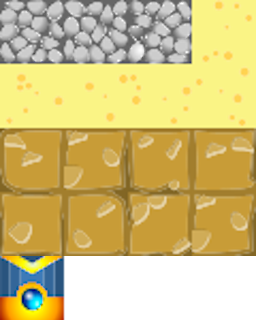
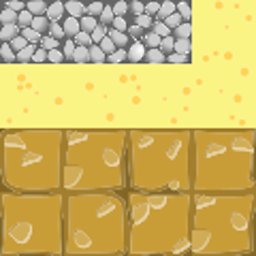
update

diff --git a/js/game.js b/js/game.js
@@ -1,3 +1,13 @@
+var level = 1;
+var score = 0;
+const Game_State = {
+  INTRO: 0,
+  LEVEL_INTRO: 1,
+  LEVEL: 2,
+  GAME_OVER: 3
+};
+var game_state = Game_State.INTRO;
+
 const config = {
   type: Phaser.AUTO,
   parent: 'game',
@@ -24,9 +34,10 @@ function preload() {
   this.load.image('background', 'assets/images/background.png');
   this.load.image('tiles', 'assets/tilesets/blocks.png');
   this.load.image('spike', 'assets/images/spike.png');
+  this.load.image('portal', 'assets/images/portal.png');
   this.load.tilemapTiledJSON('map', 'assets/tilemaps/level1.json');
   this.load.spritesheet('player', 'assets/spritesheets/player.png', 
-    { frameWidth: 32, frameHeight: 32 });
+    { frameWidth: 34, frameHeight: 34 });
   this.load.spritesheet('capsule', 'assets/spritesheets/capsule.png', 
       { frameWidth: 32, frameHeight: 32 });
   }
@@ -51,13 +62,14 @@ function create() {
   this.physics.add.collider(this.player, platforms);
  
   this.capsule = this.physics.add.sprite(6*BLOCK_SIZE, 3*BLOCK_SIZE,'capsule').setScale(1.25).setOrigin(0);;
-//  this.capsule.setBounce(0.1); // our player will bounce from items
   this.capsule.setCollideWorldBounds(true); // don't go out of the map
   this.capsule.setGravityY(1500);
   this.capsule.setBounce(.2);
    this.physics.add.collider(this.capsule, platforms);
   this.physics.add.collider(this.capsule, this.player);
-
+  this.portal = this.physics.add.sprite(9*BLOCK_SIZE, 12*BLOCK_SIZE,'portal').setScale(1.75).setOrigin(0);;
+  this.physics.add.collider(this.capsule, this.portal, levelUp, null, this);
+ 
   this.anims.create({
     key: 'walk',
     frames: this.anims.generateFrameNumbers('player', { frames: [ 4, 5, 6 ] }),
@@ -95,34 +107,34 @@ function create() {
   // Enable user input via cursor keys
   this.cursors = this.input.keyboard.createCursorKeys();
 
-  return;
   // Create a sprite group for all spikes, set common properties to ensure that
   // sprites in the group don't move via gravity or by player collisions
-  this.spikes = this.physics.add.group({
-    allowGravity: false,
-    immovable: true
-  });
+  // this.spikes = this.physics.add.group({
+  //   allowGravity: false,
+  //   immovable: true
+  // });
 
-  // Get the spikes from the object layer of our Tiled map. Phaser has a
-  // createFromObjects function to do so, but it creates sprites automatically
-  // for us. We want to manipulate the sprites a bit before we use them
-  map.getObjectLayer('Spikes').objects.forEach((spike) => {
-    // Add new spikes to our sprite group
-    const spikeSprite = this.spikes.create(spike.x, spike.y + 200 - spike.height, 'spike').setOrigin(0);
-    // By default the sprite has loads of whitespace from the base image, we
-    // resize the sprite to reduce the amount of whitespace used by the sprite
-    // so collisions can be more precise
-    spikeSprite.body.setSize(spike.width, spike.height - 20).setOffset(0, 20);
-  });
+  // // Get the spikes from the object layer of our Tiled map. Phaser has a
+  // // createFromObjects function to do so, but it creates sprites automatically
+  // // for us. We want to manipulate the sprites a bit before we use them
+  // map.getObjectLayer('Spikes').objects.forEach((spike) => {
+  //   // Add new spikes to our sprite group
+  //   const spikeSprite = this.spikes.create(spike.x, spike.y + 200 - spike.height, 'spike').setOrigin(0);
+  //   // By default the sprite has loads of whitespace from the base image, we
+  //   // resize the sprite to reduce the amount of whitespace used by the sprite
+  //   // so collisions can be more precise
+  //   spikeSprite.body.setSize(spike.width, spike.height - 20).setOffset(0, 20);
+  // });
 
-  // Add collision between the player and the spikes
-  this.physics.add.collider(this.player, this.spikes, playerHit, null, this);
-  this.add.text(BLOCK_SIZE+30, 10, 'LEVEL', {
+  // // Add collision between the player and the spikes
+  // this.physics.add.collider(this.player, this.spikes, playerHit, null, this);
+
+  this.add.text(BLOCK_SIZE+30, 10, 'LEVEL: '+level, {
     fontFamily: 'impact',
     fontSize: '24px',
     color: 'yellow'
   });
-  this.add.text(BLOCK_SIZE*4+20, 10, 'SCORE', {
+  this.add.text(BLOCK_SIZE*4+20, 10, 'SCORE: '+score, {
     fontFamily: 'impact',
     fontSize: '24px',
     color: 'yellow'
@@ -195,4 +207,9 @@ function playerHit(player, spike) {
     ease: 'Linear',
     repeat: 5,
   });
+}
+
+function levelUp(){
+  this.capsule.visible = false;
+  console.log('level up!!!');
 }
